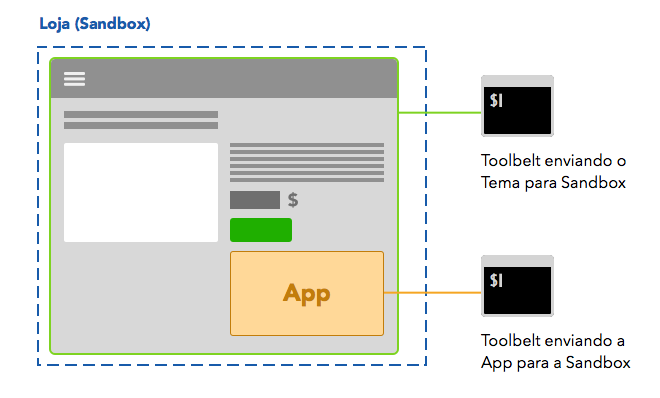
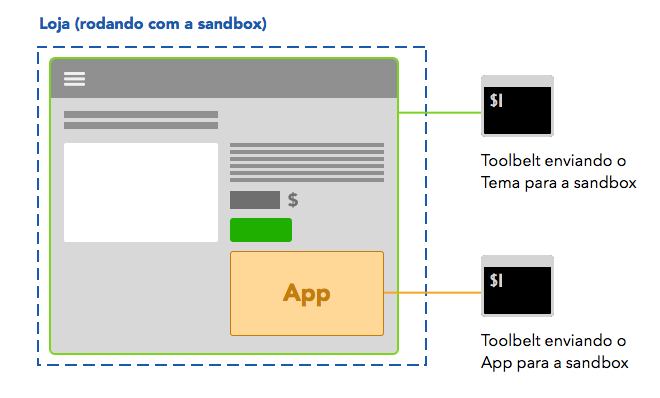
Update and fix diagrams Change App noun to masculine in portuguese

diff --git a/0_intro/2-REVIEW-ambiente-de-desenvolvimento.md b/0_intro/2-REVIEW-ambiente-de-desenvolvimento.md
@@ -1,40 +1,40 @@
 # Ambiente de Desenvolvimento
 
-O ambiente de desenvolvimento do Storefront foi pensado para garantir mais velocidade e praticidade para desenvolvedores, garantindo que suas apps possam ser facilmente validadas antes de ir para produção.
+  O ambiente de desenvolvimento do Storefront foi pensado para garantir mais velocidade e praticidade para desenvolvedores, garantindo que seus apps possam ser facilmente validadas antes de ir para produção.
 
-Depois de rodar o [setup inicial](1-setup-inicial.md) em seu projeto, você irá usar o Toolbelt para visualizar sua app rodando sobre um ambiente de testes durante o desenvolvimento.
+Depois de rodar o [setup inicial](1-setup-inicial.md) em seu projeto, você irá usar o Toolbelt para visualizar seu App rodando sobre um ambiente de testes durante o desenvolvimento.
 
-Criamos o cenário abaixo apenas para ilustrar o fluxo de desenvolvimento -- você pode vê-lo com mais detalhes em nosso tutorial, [Criando sua Primeira App](3-criando-sua-primeira-app.md).
+Criamos o cenário abaixo apenas para ilustrar o fluxo de desenvolvimento -- você pode vê-lo na prática em nosso tutorial, [Criando seu Primeiro App](3-criando-seu-primeiro-app.md).
 
 ---
 
-Digamos que você queira desenvolver uma app para que usuários deixem Reviews em cada produto da loja -- para tal, esta App deve aparecer em todas as suas páginas de produto.
+Digamos que você queira desenvolver um App para que usuários deixem Reviews em cada produto da loja -- para tal, este App deve aparecer em todas as suas páginas de produto.
 
 ![Gráfico com app de review aparecendo na página de produto](pagina_produto_com_app.png)
 
 
-Para visualizar a App em sua loja durante o desenvolvimento, você irá subi-la em uma **Sandbox**, que permite que apenas seu usuário visualizar as alterações em desenvolvimento.
+Para visualizar o App em sua loja durante o desenvolvimento, você irá subi-la em uma **sandbox**, que permite que apenas seu usuário visualizar as alterações em desenvolvimento.
 
-Para isso, é preciso fazer login com suas credenciais no Toolbelt e rodá-lo com o comando `watch`. Sua App já estará instalada na sua loja, exclusivamente em sua Sandbox. Saiba mais sobre o Toolbelt em sua [documentação oficial](https://www.npmjs.com/package/vtex).
+Para isso, é preciso fazer login com suas credenciais no Toolbelt e rodá-lo com o comando `watch`. seu App já estará instalada na sua loja, exclusivamente em sua Sandbox. Saiba mais sobre o Toolbelt em sua [documentação oficial](https://www.npmjs.com/package/vtex).
 
-> OK, agora a App está instalada em minha loja (na Sandbox)... mas como faço para que apareça de fato em minha página de produto?
+> OK, agora o App está instalada em minha loja (na Sandbox)... mas como faço para que apareça de fato em minha página de produto?
 
-![Gráfico mostrando o fluxo do toolbelt subindo a app](pagina_produto_terminal.png)
+![Gráfico mostrando o fluxo do toolbelt subindo o App](pagina_produto_terminal.png)
 
-Isto depende de como o Tema da sua loja (que também é uma App!) foi desenvolvido:
+Isto depende de como o Tema da sua loja (que também é um App!) foi desenvolvido:
 
- - Caso sua loja use um **[Tema Flexível](../2_conceitos/tema-flexivel.md)** e possua um componente `Área` na página de produto, basta entrar no `Modo de Edição` e configurar sua `Área` para exibir a App desejada dentro dela.
+ - Caso sua loja use um **[Tema Flexível](../2_conceitos/tema-flexivel.md)** e possua um componente **Área** na página de produto, basta entrar no **Modo de Edição** e configurar sua Área para exibir o App desejada dentro dela.
 
- Lembre-se que a App só está instalada na Sandbox, então outros usuários não poderão vê-la.
+ Lembre-se que o App só está instalada na Sandbox, então outros usuários não poderão vê-la.
 
-![Gráfico mostrando edição da página de produto e seleção do review](pagina_produto_adicionando-a-app.png)
+![Gráfico mostrando edição da página de produto e seleção do review](pagina_produto_adicionando-app.png)
 
- - Caso seu tema não seja `Flexível`, você precisará do seu código-fonte para editá-lo localmente. Neste caso, você deverá importar a App dentro de seu Tema e rodar o Tema em uma segunda instância do Toolbelt, como exemplificado no esquema abaixo.
+ - Caso seu tema não seja `Flexível`, você precisará do seu código-fonte para editá-lo localmente. Neste caso, você deverá importar o App dentro de seu Tema e rodar o Tema em uma segunda instância do Toolbelt, como exemplificado no esquema abaixo.
 
- Veja nosso guia para aprender a [importar uma App como dependência em seu Tema](4-importar-uma-app-como-dependencia.md).
+ Veja nosso guia para aprender a [importar um App como dependência em seu Tema](4-importar-um-app-como-dependencia.md).
 
 ![Gráfico mostrando dois terminais rodando com tema e app sendo pushed](pagina_produto_app-e-tema-pelo-toolbelt.png)
 
 ---
 
-Ao terminar o desenvolvimento de sua App, você pode usar o comando `vtex publish` para deixá-la disponível a lojas na Gallery. Saiba mais sobre este processo em [Finalizando e Publicando sua App](5-finalizando-e-publicando-sua-app.md).
+Ao terminar o desenvolvimento de seu App, você pode usar o comando `vtex publish` para deixá-lo disponível a lojas pela Gallery. Saiba mais sobre este processo em [Finalizando e Publicando seu App](5-finalizando-e-publicando-seu-app.md).

diff --git a/0_intro/0-conceitos-basicos.md b/0_intro/0-conceitos-basicos.md
@@ -10,17 +10,17 @@ O Storefront e o Storefront Editor ainda estão em fase de testes, mas ao entrar
 
 ### Apps
 
-Para apresentarmos o Storefront, é fundamental falarmos do conceito de App, que é peça-chave na nova arquitetura da VTEX. Uma App é uma aplicação ou sistema que desempenha uma funcionalidade quando instalada em uma loja VTEX. O layout de uma loja nada mais é que uma App de Tema instalada na conta da loja.
+Para apresentarmos o Storefront, é fundamental falarmos do conceito de App, que é peça-chave na nova arquitetura da VTEX. Um App é uma aplicação ou sistema que desempenha uma funcionalidade quando instalada em uma loja VTEX. O layout de uma loja nada mais é que um App de Tema instalado na conta da loja.
 
-Apps trazem autonomia para lojistas, ao permitir que adicionem novas funcionalidades e customizem o design da loja sem depender diretamente de desenvolvimento por terceiros: a instalação de apps é no Storefront completamente plug & play.
+Apps trazem autonomia para lojistas, ao permitir que adicionem novas funcionalidades e customizem o design da loja sem depender diretamente de desenvolvimento por terceiros: a instalação de Apps é no Storefront completamente plug & play.
 
 Por outro lado, o desenvolvimento e comercialização de Apps permitem à agências e desenvolvedores diversificar seu portfolio de produtos e serviços com um sistema de instalação e cobrança sem dores de cabeça.
 
-As apps podem trazer diversas funcionalidades para o site da loja: uma app de reviews que permite a um cliente avaliar produtos e ler avaliações de terceiros ou até mesmo uma nova app de tema para mudar todo o layout de sua loja em um só clique.
+Os Apps podem trazer diversas funcionalidades para o site da loja: um App de reviews que permite a um cliente avaliar produtos e ler avaliações de terceiros ou até mesmo um novo App de tema para mudar todo o layout de sua loja em um só clique.
 
 ### Gallery
 
-A VTEX Gallery permite que desenvolvedores e agências publiquem apps — gratuitos ou pagos — que podem ser facilmente encontrados e instalados por lojistas da VTEX.
+A VTEX Gallery permite que desenvolvedores e agências publiquem Apps — gratuitos ou pagos — que podem ser facilmente encontrados e instalados por lojistas da VTEX.
 
 Apps disponibilizados na Gallery são mais poderosos que as antigas extensões da VTEX Store, pois oferecem funcionalidades que podem interagir com todos os sistemas da VTEX.
 
@@ -28,10 +28,10 @@ Apps disponibilizados na Gallery são mais poderosos que as antigas extensões d
 
 Com o Storefront Editor, o usuário lojista pode acessar seu site em modo de edição e configurar seus componentes — seja um texto estático em uma página do site, a imagem de um banner, a quantidade de produtos em uma prateleira ou alguma opção de layout do tema.
 
-Como o Storefront possui uma natureza modular, o modo de edição de duas lojas podem ser completamente diferentes, dependendo dos apps e componentes instalados por cada uma.
+Como o Storefront possui uma natureza modular, o modo de edição de duas lojas podem ser completamente diferentes, dependendo dos Apps e componentes instalados por cada uma.
 
 ### Toolbelt
 
 Toolbelt é uma ferramenta de linha de comando criada para melhorar sua experiência de desenvolvimento de Apps para o Storefront.
 
-Com ele é possível dar `watch` na pasta de seu projeto e ver todas as alterações aparecendo no browser em tempo real. Além disso, ele também possui um comando `publish`, para publicar sua App na Gallery quando estiver pronta.
+Com ele é possível dar `watch` na pasta de seu projeto e ver todas as alterações aparecendo no browser em tempo real. Além disso, ele também possui um comando `publish`, para publicar seu App na Gallery quando estiver pronta.

diff --git a/0_intro/3-REVIEW-criando-seu-primeiro-app.md b/0_intro/3-REVIEW-criando-seu-primeiro-app.md
@@ -9,16 +9,16 @@ yo vtex:storefront --simple
 
 E responda as perguntas com:
 
-- Dê o nome de "my-first-app"
+- Dê o nome de "nomedoseuapp"
 - Digite "alphateam" como vendor
 
 Em algumas instalações do node, o comando acima pode dar erro. Se tiver problemas, rode o comando com `sudo`.
 
-Este processo irá criar a estrutura de pastas e arquivos iniciais de sua App.
+Este processo irá criar a estrutura de pastas e arquivos iniciais de seu App.
 
 ## Estrutura de pastas
 
-Uma app no Storefront tem as seguintes pastas e arquivos:
+Um App no Storefront tem as seguintes pastas e arquivos:
 
 ```
 .
@@ -44,7 +44,7 @@ Esses arquivos definem chamadas a APIs, usaremos os recursos em arquivos de comp
 
 ### meta.json
 
-Todas as apps na Gallery precisam do arquivo `meta.json`. Nele ficam registradas diversas informações sobre sua app como o nome (`name`), nome amigável (`title`), descrição (`description`) e depedências de outras apps (`dependencies`).
+Todas os Apps na Gallery precisam do arquivo `meta.json`. Nele ficam registradas diversas informações sobre seu App como o nome (`name`), nome amigável (`title`), descrição (`description`) e depedências de outros Apps (`dependencies`).
 
 ### .vtexignore
 
@@ -56,7 +56,7 @@ Até então, as coisas não estão funcionando! Agora que temos tudo pronto para
 
 ## Hello World!
 
-Vamos subir a nossa app na Gallery. Abra o terminal na pasta da app e digite:
+Vamos subir nosso App na Gallery. Abra o terminal na pasta do App e digite:
 
 ```sh
 vtex watch
@@ -69,7 +69,7 @@ Ao fazer o login, use `basedevmkp` como account e prossiga com suas credenciais 
 Após fazer o login, verá que o Toolbelt mostrará uma linda mensagem e algo assim:
 
 ```
-Watching nomedasuaapp
+Watching nomedoseuapp
 
 U meta.json
 U storefront/assets/index.js
@@ -82,7 +82,7 @@ Your URL: http://sualoja.beta.myvtex.com/?workspace=sb_seuemail
 
 O que o Toolbelt acabou de fazer foi:
 
-- Ler do arquivo `meta.json`, o nome e o vendor de sua app
+- Ler do arquivo `meta.json`, o nome e o vendor de seu App
 - Ler o arquivo `.vtexignore` e guardar quais arquivos ela não deve fazer upload
 - Upload de todos os arquivos que não estão na lista de arquivos do `.vtexignore`
 
@@ -90,4 +90,4 @@ Abra a URL da loja em desenvolvimento clicando ou copiando o link disponibilizad
 
 Você deve estar vendo "Hello World!" escrito na tela.
 
-O Toolbelt está escutando qualquer modificação feita nos arquivos de sua app. Podemos testar isso abrindo o arquivo `assets/index.js` e alterando o texto "Hello World!". Salve o arquivo. Verá que o Toolbelt fez o upload para a Gallery. Note também que a página deu refresh, isso acontece automaticamente por conta do sistema de livereload.
+O Toolbelt está escutando qualquer modificação feita nos arquivos de seu App. Podemos testar isso abrindo o arquivo `assets/index.js` e alterando o texto "Hello World!". Salve o arquivo. Verá que o Toolbelt fez o upload para a Gallery. Note também que a página deu refresh, isso acontece automaticamente por conta do sistema de livereload.

diff --git a/0_intro/1-setup-inicial.md b/0_intro/1-setup-inicial.md
@@ -47,7 +47,7 @@ yo
 
 ### Generator VTEX
 
-O [generator-vtex](https://github.com/vtex/generator-vtex/) é um gerador de estrutura de pastas para apps VTEX. Ao rodar o Generator você terá toda a estrutura básica necessária para começar a desenvolver sua app.
+O [generator-vtex](https://github.com/vtex/generator-vtex/) é um gerador de estrutura de pastas para apps VTEX. Ao rodar o Generator você terá toda a estrutura básica necessária para começar a desenvolver seu App.
 
 ```sh
 npm install -g generator-vtex
@@ -63,7 +63,7 @@ yo vtex
 
 O pacote `vtex` é uma ferramenta que chamamos de [Toolbelt](https://github.com/vtex/toolbelt).
 
-O Toolbelt é essencial para o desenvolvimento de apps, pois permite que você desenvolva sua app localmente vendo mudanças no browser em tempo real, além de publicar suas apps na Gallery quando estiverem prontas para ir para produção.
+O Toolbelt é essencial para o desenvolvimento de apps, pois permite que você desenvolva seu App localmente vendo mudanças no browser em tempo real, além de publicar suas apps na Gallery quando estiverem prontas para ir para produção.
 
 ```sh
 npm install -g vtex
